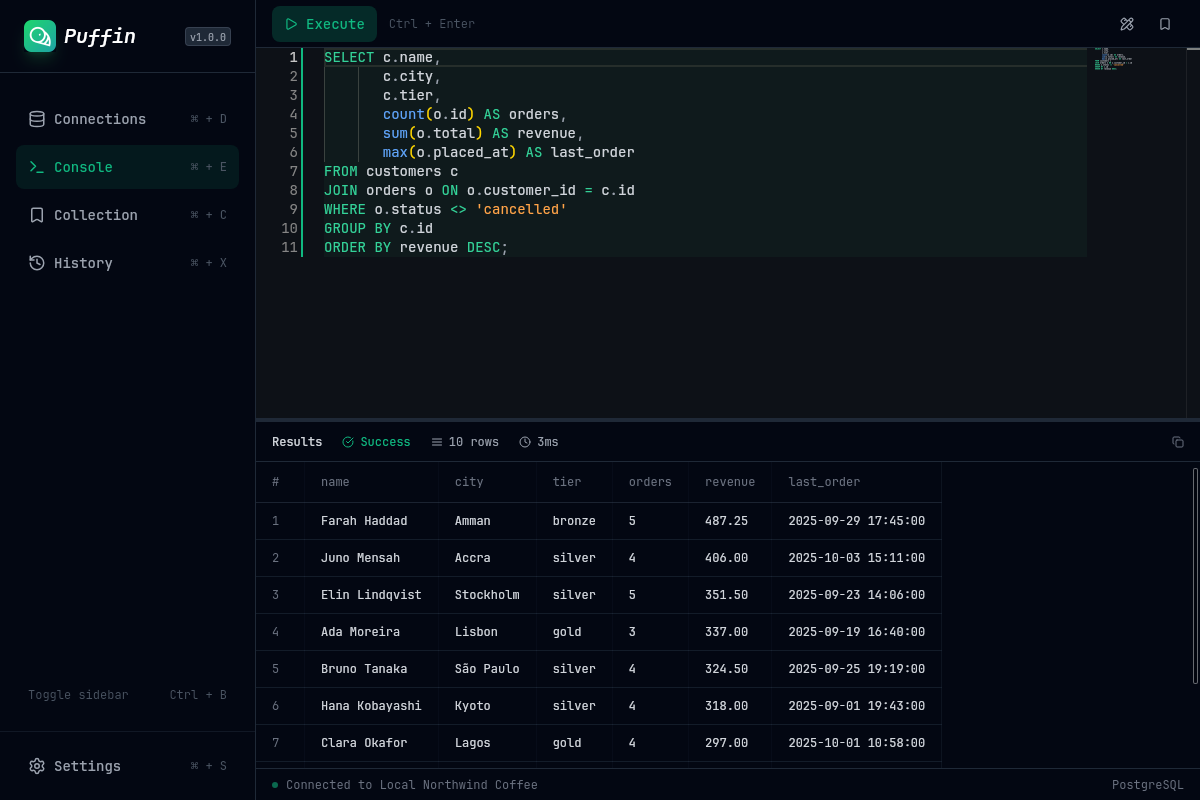
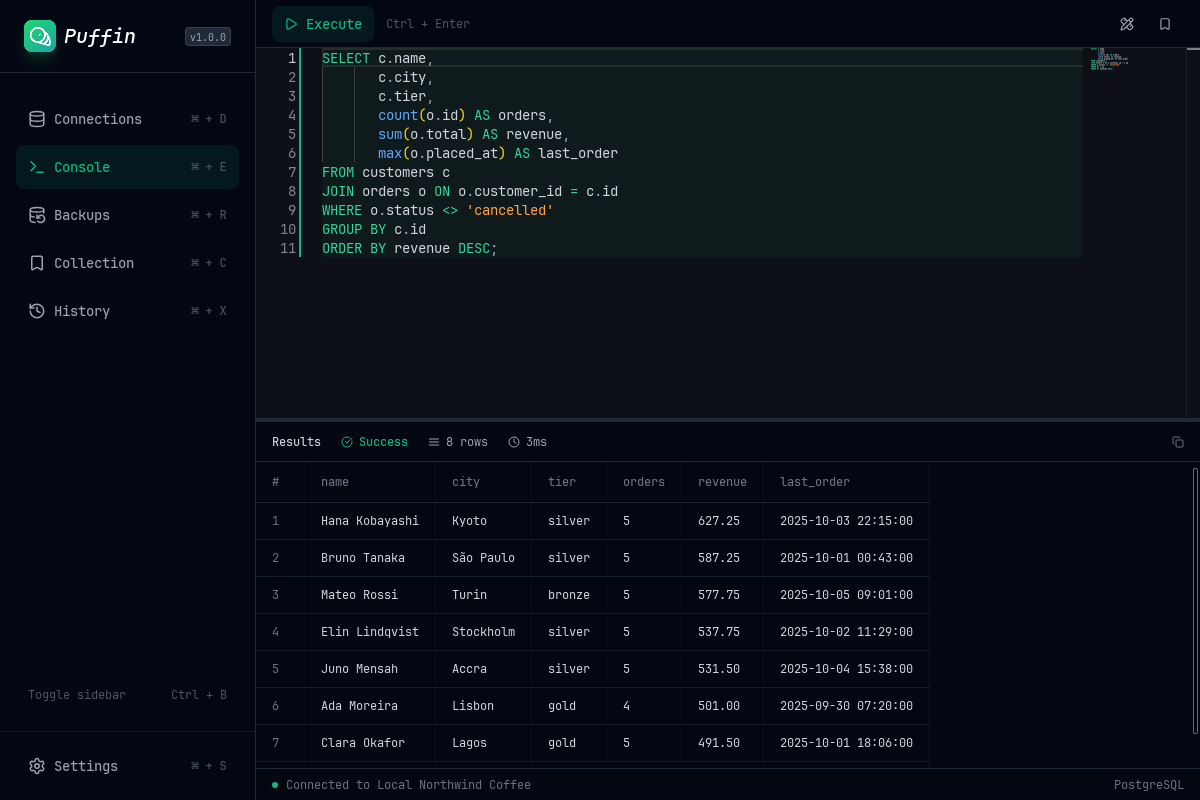
docs: Update README and screenshots for backups and apply preview

diff --git a/README.md b/README.md
@@ -23,13 +23,14 @@
 
 ![Puffin query console showing a query and its results](docs/screenshots/01-console.png)
 
-Puffin is a lightweight PostgreSQL GUI built with Tauri, Rust and Vue. It focuses on the day-to-day loop of writing queries, reading results and making quick fixes to data, without the weight of a full database IDE.
+Puffin is a lightweight PostgreSQL GUI built with Tauri, Rust and Vue. It focuses on the day-to-day loop of writing queries, reading results, making quick fixes to data and moving databases around, without the weight of a full database IDE.
 
 ## Features
 
 - **Query console** powered by Monaco, with Ctrl+Enter to run the statement under the cursor and one-key SQL formatting.
 - **Schema-aware autocomplete** for schemas, tables, views, columns (with their types), table aliases, CTEs, functions and SQL keywords.
-- **Inline cell editing**: right-click a cell, edit it in place, review the highlighted changes and apply them all in a single transaction.
+- **Inline cell editing**: right-click a cell, edit it in place, review the highlighted changes and apply them all in a single transaction, after a confirmation that shows how many rows change and the exact SQL that will run.
+- **Backups and restores** with `pg_dump` and `pg_restore`: keep timestamped backups of any connection and restore them into another one, behind a typed confirmation.
 - **Rich type rendering** for numeric, json/jsonb, arrays (including multidimensional), enums, uuid, dates and times, intervals, inet/cidr and bytea.
 - **Copy anything**: a single cell from its context menu, or the whole result set as a pretty table or CSV.
 - **Connection manager** with groups, color-coded cards and encrypted passwords.
@@ -43,23 +44,39 @@ Puffin is a lightweight PostgreSQL GUI built with Tauri, Rust and Vue. It focuse
 <table>
   <tr>
     <td width="50%"><img src="docs/screenshots/02-inline-editing.png" alt="Editing result cells inline, with pending changes highlighted"></td>
-    <td width="50%"><img src="docs/screenshots/03-autocomplete.png" alt="Autocomplete suggesting columns and their types"></td>
+    <td width="50%"><img src="docs/screenshots/03-apply-preview.png" alt="Apply confirmation showing the row count and the UPDATE statements that will run"></td>
   </tr>
   <tr>
     <td align="center"><sub>Inline editing with pending changes</sub></td>
+    <td align="center"><sub>Apply confirmation with SQL preview</sub></td>
+  </tr>
+  <tr>
+    <td width="50%"><img src="docs/screenshots/04-autocomplete.png" alt="Autocomplete suggesting columns and their types"></td>
+    <td width="50%"><img src="docs/screenshots/05-connections.png" alt="Connections grouped by environment"></td>
+  </tr>
+  <tr>
     <td align="center"><sub>Schema-aware autocomplete</sub></td>
-  </tr>
-  <tr>
-    <td width="50%"><img src="docs/screenshots/04-connections.png" alt="Connections grouped by environment"></td>
-    <td width="50%"><img src="docs/screenshots/05-collection.png" alt="Saved queries with a preview pane"></td>
-  </tr>
-  <tr>
     <td align="center"><sub>Connections</sub></td>
+  </tr>
+  <tr>
+    <td width="50%"><img src="docs/screenshots/06-backups.png" alt="Backups grouped by connection, with details and the live pg_dump log"></td>
+    <td width="50%"><img src="docs/screenshots/07-new-backup.png" alt="New backup dialog listing connection groups"></td>
+  </tr>
+  <tr>
+    <td align="center"><sub>Backups with a live log</sub></td>
+    <td align="center"><sub>Starting a backup</sub></td>
+  </tr>
+  <tr>
+    <td width="50%"><img src="docs/screenshots/08-restore.png" alt="Restore confirmation asking for the target database name"></td>
+    <td width="50%"><img src="docs/screenshots/09-collection.png" alt="Saved queries with a preview pane"></td>
+  </tr>
+  <tr>
+    <td align="center"><sub>Restore confirmation</sub></td>
     <td align="center"><sub>Collection</sub></td>
   </tr>
   <tr>
-    <td width="50%"><img src="docs/screenshots/06-history.png" alt="Query history with a preview pane"></td>
-    <td width="50%"><img src="docs/screenshots/07-settings.png" alt="Settings for history and syntax highlighting"></td>
+    <td width="50%"><img src="docs/screenshots/10-history.png" alt="Query history with a preview pane"></td>
+    <td width="50%"><img src="docs/screenshots/11-settings.png" alt="Settings for history and syntax highlighting"></td>
   </tr>
   <tr>
     <td align="center"><sub>History</sub></td>
@@ -111,6 +128,7 @@ Puffin is built from source on your machine, so the first install takes a few mi
 | <kbd>Ctrl</kbd> + <kbd>S</kbd> | Format the query (inside the editor) |
 | <kbd>Ctrl</kbd> + <kbd>Shift</kbd> + <kbd>D</kbd> | Connections |
 | <kbd>Ctrl</kbd> + <kbd>Shift</kbd> + <kbd>E</kbd> | Console |
+| <kbd>Ctrl</kbd> + <kbd>Shift</kbd> + <kbd>R</kbd> | Backups |
 | <kbd>Ctrl</kbd> + <kbd>Shift</kbd> + <kbd>C</kbd> | Collection |
 | <kbd>Ctrl</kbd> + <kbd>Shift</kbd> + <kbd>X</kbd> | History |
 | <kbd>Ctrl</kbd> + <kbd>Shift</kbd> + <kbd>S</kbd> | Settings |
@@ -120,9 +138,20 @@ Puffin is built from source on your machine, so the first install takes a few mi
 
 ### Editing data
 
-Right-click any cell in the results and choose **Edit**. Press <kbd>Enter</kbd> to confirm or <kbd>Esc</kbd> to cancel; the context menu also offers **Set NULL** for nullable columns and **Revert** for modified cells. Changes stay highlighted until you click **Apply** in the results header, which writes them all in one transaction, or **Discard**.
+Right-click any cell in the results and choose **Edit**. Press <kbd>Enter</kbd> to confirm or <kbd>Esc</kbd> to cancel; the context menu also offers **Set NULL** for nullable columns and **Revert** for modified cells. Changes stay highlighted until you click **Apply** or **Discard** in the results header. **Apply** first asks for confirmation, showing how many rows will be updated and in which tables; **Preview SQL** reveals the exact statements, with their values inlined. Confirming writes every change in one transaction, and if any row no longer matches, nothing is written.
 
 A cell is editable when its column comes from a table (not a view or an expression) and the table's full primary key is part of the result. When a cell can't be edited, the menu tells you why. Values are sent as text and cast by PostgreSQL, so any input format PostgreSQL accepts for the column type works.
+
+### Backups and restores
+
+The **Backups** page lists every backup grouped by connection, newest first, with its creation date, size and how long it took.
+
+- **New backup** asks for a connection group, then a connection, and runs `pg_dump` in custom format. The output streams into a live log, and the file is kept in Puffin's data folder. You can keep as many backups of a connection as you like.
+- **Restore...** walks through three steps: the target connection, the mode and a confirmation where you type the target database's name. The source connection is flagged so it is not overwritten by accident.
+  - **Replace objects** drops and recreates the objects in the backup and leaves anything else in the database untouched.
+  - **Recreate database** drops the whole database, disconnecting open sessions, and restores into a fresh one. It needs PostgreSQL 13 or newer and permission to create databases.
+
+Both modes run `pg_restore` in a single transaction, so a failed restore applies nothing. Passwords are passed to `pg_dump` and `pg_restore` through the environment, never on the command line. The Nix package ships the PostgreSQL 18 client tools, which can back up and restore any older server.
 
 ### Results
 
@@ -149,6 +178,8 @@ Puffin keeps its data as JSON files in `~/.local/share/puffin/`:
 | `connections.json` | Saved connections and the active one |
 | `queries.json` | Collection, history and the console's current text |
 | `settings.json` | Settings |
+| `backups.json` | Backup metadata (connection, date, size, duration) |
+| `backups/` | The backup files, in `pg_dump` custom format |
 
 Connection passwords are encrypted with AES-256-GCM before they are written to disk. The key is embedded in the application, so this keeps passwords out of plain sight but does not protect them from someone who has access to your files and the Puffin binary.
 
@@ -157,7 +188,7 @@ Connection passwords are encrypted with AES-256-GCM before they are written to d
 | Layer | Technologies |
 | --- | --- |
 | Desktop shell | [Tauri 2](https://tauri.app) |
-| Backend | Rust, [tokio-postgres](https://github.com/sfackler/rust-postgres) |
+| Backend | Rust, [tokio-postgres](https://github.com/sfackler/rust-postgres), `pg_dump` / `pg_restore` |
 | Frontend | [Vue 3](https://vuejs.org), TypeScript, [Vite](https://vite.dev) |
 | Editor | [Monaco Editor](https://microsoft.github.io/monaco-editor/), [sql-formatter](https://github.com/sql-formatter-org/sql-formatter) |
 | Styling | [UnoCSS](https://unocss.dev), [Lucide](https://lucide.dev) icons |
@@ -197,11 +228,11 @@ src/                 Vue frontend
   components/        UI components, grouped by page
   composables/       Shared state and logic (autocomplete, result edits)
   helpers/           Pure functions, covered by unit tests
-  pages/             Connections, Console, Collection, History, Settings
+  pages/             Connections, Console, Backups, Collection, History, Settings
   sql/completion/    SQL tokenizer and autocomplete engine
   stores/            Persistent state backed by the Tauri store plugin
 src-tauri/           Rust backend
-  src/lib.rs         Tauri commands: queries, schema, cell edits
+  src/lib.rs         Tauri commands: queries, schema, cell edits, backups
   src/decode.rs      PostgreSQL binary value decoding
 test/                Frontend unit tests
 ```
